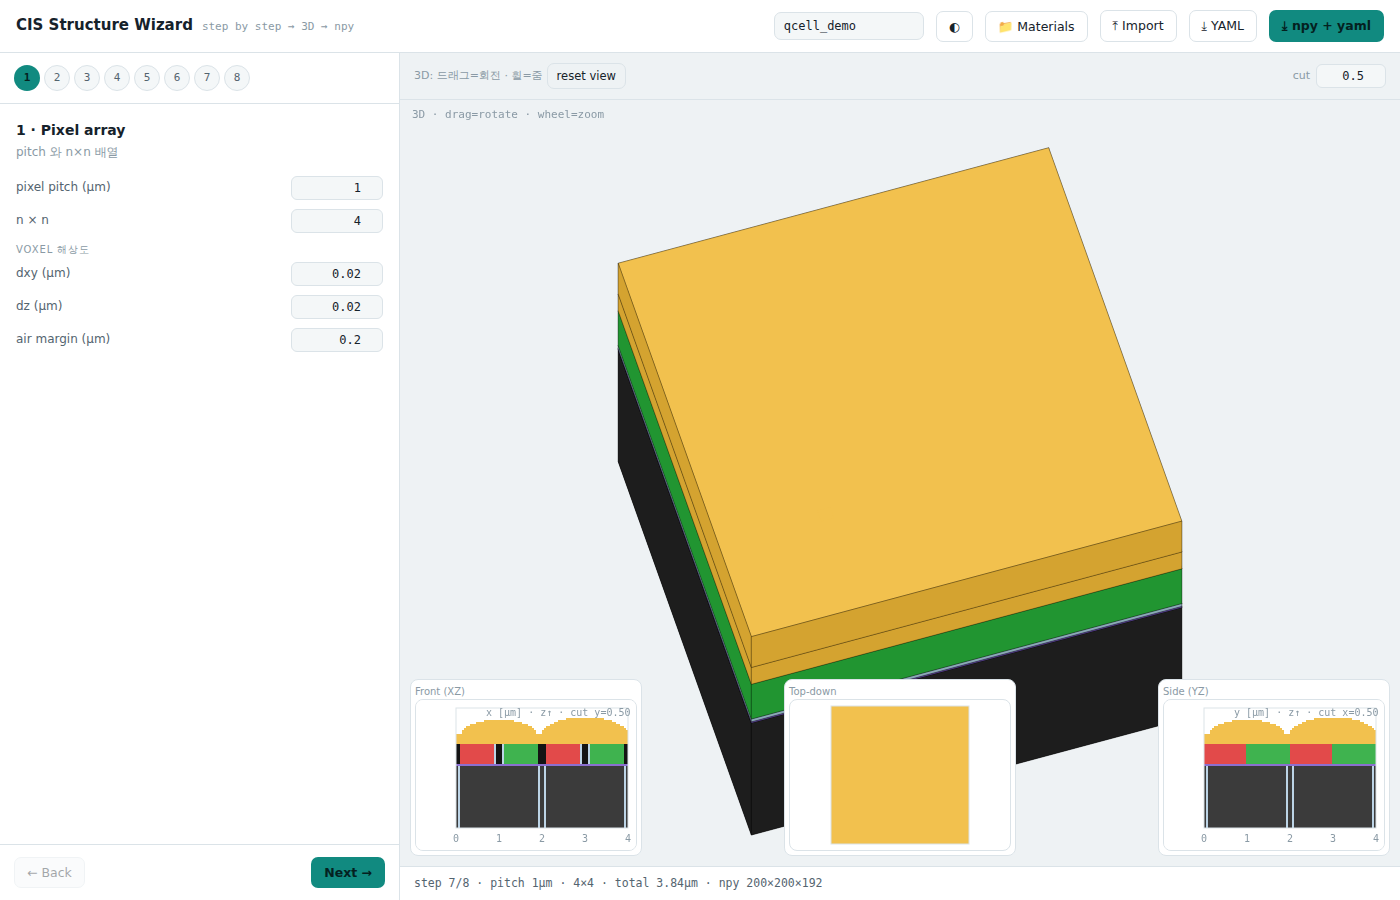
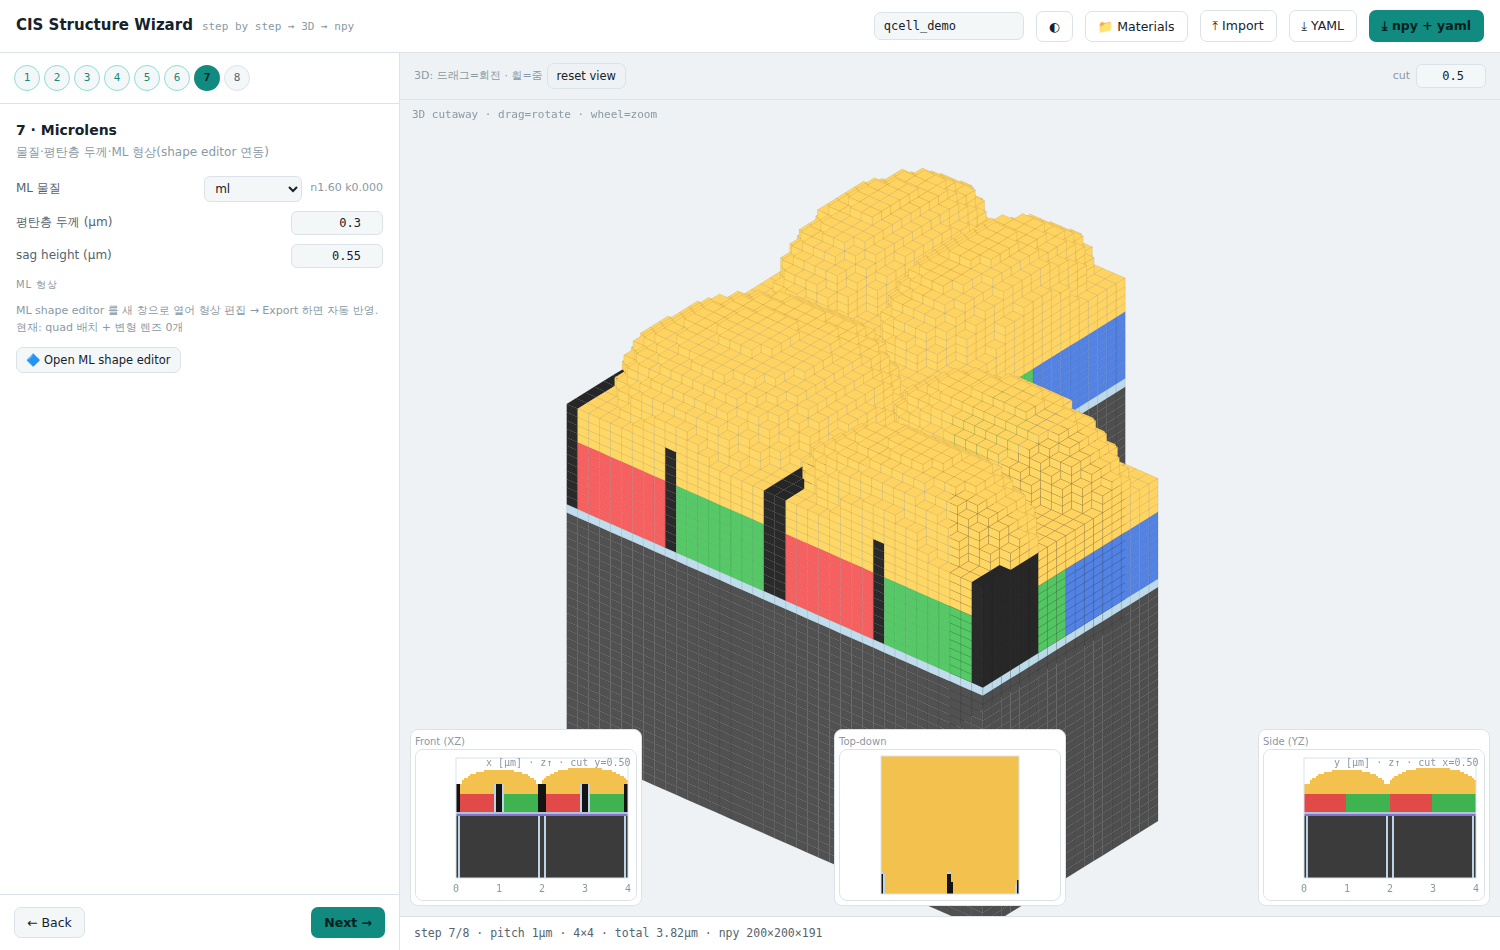
Real cutaway voxel 3D: DTI clover, grid fence, CF cells, ML domes, conformal ARL
- 3D 를 층 박스 대신 실제 구조 cutaway 복셀 렌더(build3D 지오메트리 +
  redraw3D 재투영). 한 사분면 절단으로 내부 단면 노출. 회전=재투영만(빠름).
- DTI center: + 팔은 남고 중앙만 열려 4픽셀 Si 연결(클로버), 표면 oxide 라이너.
- grid=3D 울타리(fence), CF=울타리 셀 채움, ML=실제 돔, ARL=ML 표면 conformal.
- 평탄층 두께 = 최저 CF top 기준(planarSpan). 모든 뷰(3D/front/side/top) 일관.

Claude-Session: https://claude.ai/code/session_01TWsubYhc5KeSwgcdPsEJZM

diff --git a/cis_rcwa/editors/structure_wizard.html b/cis_rcwa/editors/structure_wizard.html
@@ -160,24 +160,26 @@ function mlSag(x,y){ const p=P(),h=+S.stack.ml.sag_height_um,q=S.stack.ml.quads,
     else if(sh==="1x1"){for(let a=0;a<2;a++)for(let b=0;b<2;b++)dome(`q${qy}${qx}_1x1_${a*2+b}`,x0+(b+.5)*p,y0+(a+.5)*p,p/2,p/2);}
     else if(sh==="2x1"){ if(or==="h")for(let a=0;a<2;a++)dome(`q${qy}${qx}_2x1_${a}`,cx0,y0+(a+.5)*p,p,p/2); else for(let b=0;b<2;b++)dome(`q${qy}${qx}_2x1_${b}`,x0+(b+.5)*p,cy0,p/2,p);} }
   return sag; }
-function totalH(){ const s=S.stack; return +s.si.thickness_um + s.barl.reduce((a,l)=>a+ +l.thickness_um,0) + bandH() + +s.ml.planar_um + +s.ml.sag_height_um + +s.arl_top.thickness_um + +S.grid.air_margin_um; }
+function totalH(){ const s=S.stack; return +s.si.thickness_um + s.barl.reduce((a,l)=>a+ +l.thickness_um,0) + planarSpan() + +s.ml.sag_height_um + +s.arl_top.thickness_um + +S.grid.air_margin_um; }
 
 // ============================ npy voxel 빌드 ============================
+// planar band 높이: 평탄층 두께는 '최저 CF top' 기준. (tall CF/grid 는 덮도록 max)
+function cfMinH(){ return Math.min(S.stack.cf.R.thickness_um,S.stack.cf.G.thickness_um,S.stack.cf.B.thickness_um); }
+function planarSpan(){ return Math.max(cfMinH()+ +S.stack.ml.planar_um, cfMaxH(), gridTotalH()); }
 // 임의 점 (x,y,zc[um]) 의 물질 — upto: 표시할 최대 단계(=curStep, 99=전체)
 function matAt(x,y,zc,upto){ if(upto==null)upto=99; const s=S.stack,p=P(),np=NP();
-  const zSi=+s.si.thickness_um, barlH=s.barl.reduce((a,l)=>a+ +l.thickness_um,0), band=bandH();
-  const barlTop=zSi+barlH, cfTop=barlTop+band, planarTop=cfTop+ +s.ml.planar_um;
+  const zSi=+s.si.thickness_um, barlH=s.barl.reduce((a,l)=>a+ +l.thickness_um,0);
+  const barlTop=zSi+barlH, planarTop=barlTop+planarSpan();
   if(zc<zSi){ if(upto<1)return "air"; if(upto<2)return s.si.material; const m=dtiAt(x,y); return m||s.si.material; }
   if(zc<barlTop){ if(upto<3)return "air"; let zz=zc-zSi,acc=0; for(const l of s.barl){acc+=+l.thickness_um; if(zz<=acc)return l.material;} return s.barl.length?s.barl[s.barl.length-1].material:"air"; }
-  if(zc<cfTop){ const zabs=zc-barlTop;
-    const gm=(upto>=4)?gridAt(x,y,zabs):null; if(gm)return gm;
+  if(zc<planarTop){ const zabs=zc-barlTop;
+    const gm=(upto>=4)?gridAt(x,y,zabs):null; if(gm)return gm;            // grid 울타리
     if(upto>=5){ const pr=Math.min(np-1,Math.floor(y/p)),pc=Math.min(np-1,Math.floor(x/p)),col=colorRole(S.bayer[pr][pc]);
-      const cth=s.cf[{cf_red:"R",cf_green:"G",cf_blue:"B"}[col]].thickness_um; if(zabs<=cth)return col; }
-    if(upto>=6)return s.ml.material;    // 평탄화: CF 위 delta 를 ML 물질로 채움
+      const cth=s.cf[{cf_red:"R",cf_green:"G",cf_blue:"B"}[col]].thickness_um; if(zabs<=cth)return col; }  // 울타리 안 CF
+    if(upto>=6)return s.ml.material;    // 평탄화 fill
     return "air"; }
-  if(zc<planarTop){ return upto>=6? s.ml.material : "air"; }
-  if(upto<6)return "air"; const surf=planarTop+mlSag(x,y); if(zc<=surf)return s.ml.material;
-  if(upto>=7){ const arlT=+s.arl_top.thickness_um; if(zc<=surf+arlT)return s.arl_top.material; }
+  if(upto<6)return "air"; const surf=planarTop+mlSag(x,y); if(zc<=surf)return s.ml.material;  // ML dome
+  if(upto>=7){ const arlT=+s.arl_top.thickness_um; if(zc<=surf+arlT)return s.arl_top.material; }  // ARL conformal(ALD)
   return "air"; }
 
 function buildVoxels(){
@@ -202,7 +204,7 @@ const v3={yaw:-0.7, pitch:0.55, zoom:1};
 function renderViews(){ if(_raf)cancelAnimationFrame(_raf); _raf=requestAnimationFrame(_renderViews); }
 function _renderViews(){ _raf=null;
   const cv=el("iso3d"), r=cv.parentElement.getBoundingClientRect(); cv.width=Math.max(50,r.width); cv.height=Math.max(50,r.height);
-  drawISO3D(cv);
+  build3D();
   // 미니 2D 패널: Front(좌하) · Top(중앙하) · Side(우하)
   const m=el("mini"); m.innerHTML="";
   [["front","Front (XZ)"],["top","Top-down"],["side","Side (YZ)"]].forEach(([mode,lbl])=>{
@@ -247,51 +249,46 @@ function drawTop(cv,which){ const ctx=cv.getContext("2d"),W=cv.width,H=cv.height
   // 대표 z: DTI=Si 중앙, CF+grid=band 중앙, ML=heightmap
   const N=Math.round(span*sc), B=2;
   if(which===2){ const h=+s.ml.sag_height_um; for(let px=0;px<N;px+=B)for(let py=0;py<N;py+=B){ const sg=mlSag((px+B/2)/sc,(span-(py+B/2)/sc)); if(sg<=0)continue; ctx.fillStyle=`rgba(242,193,78,${0.15+0.85*sg/h})`; ctx.fillRect(ox+px,oy+py,B,B);} }
-  else { const zAt = which===0? zSi*0.5 : zSi+barlH+bandH()*0.5;
+  else { const zAt = which===0? zSi*0.5 : zSi+barlH+Math.min(cfMinH(),gridStackH())*0.5;
     for(let px=0;px<N;px+=B)for(let py=0;py<N;py+=B){ const m=matAt((px+B/2)/sc,(span-(py+B/2)/sc),zAt,curStep); if(m==="air")continue; ctx.fillStyle=matColor(m); ctx.fillRect(ox+px,oy+py,B,B);} }
   ctx.strokeStyle=css("--line"); ctx.strokeRect(ox,oy,span*sc,span*sc);
 }
 function shadeHex(hex,d){ hex=(hex||"#888").replace('#',''); if(hex.length===3)hex=hex.split('').map(c=>c+c).join(''); const n=parseInt(hex,16); const r=Math.max(0,Math.min(255,((n>>16)&255)+d)),g=Math.max(0,Math.min(255,((n>>8)&255)+d)),bl=Math.max(0,Math.min(255,(n&255)+d)); return `rgb(${r},${g},${bl})`; }
-// 인터랙티브 3D: 회전(yaw/pitch)+줌, 면 depth 정렬, 최상단 top 면 패턴
-function drawISO3D(cv){ const ctx=cv.getContext("2d"),W=cv.width,H=cv.height; ctx.clearRect(0,0,W,H); ctx.fillStyle=css("--bg"); ctx.fillRect(0,0,W,H);
-  const p=P(),np=NP(),span=p*np,s=S.stack,Ht=totalH();
-  const base=Math.min(W,H)/(Math.max(span,Ht)*1.7)*v3.zoom, cx=span/2, cz=Ht/2;
+// 실제 구조 cutaway 복셀 3D — build3D(지오메트리) + redraw3D(투영, 회전시 재사용)
+let iso={faces:[],span:1,Ht:1};
+function build3D(){ const span=P()*NP(), Ht=totalH();
+  if(curStep<1){ iso={faces:[],span,Ht}; redraw3D(); return; }
+  const nvx=38, dv=span/nvx, nvz=Math.max(12,Math.round(Ht/(Math.max(span,Ht)/56))), dvz=Ht/nvz;
+  const cutX=span*0.5, cutY=span*0.5;   // 한 사분면 잘라내어 내부 단면 노출
+  const grid=[];
+  for(let k=0;k<nvz;k++){ const pk=[]; const z=(k+0.5)*dvz;
+    for(let j=0;j<nvx;j++){ const pj=[]; const y=(j+0.5)*dv;
+      for(let i=0;i<nvx;i++){ const x=(i+0.5)*dv; let m; if(x>cutX&&y>cutY)m="cut"; else { m=matAt(x,y,z,curStep); if(m==="air")m=null; } pj.push(m); }
+      pk.push(pj);} grid.push(pk); }
+  const cell=(i,j,k)=> (i<0||j<0||k<0||i>=nvx||j>=nvx||k>=nvz)?null:grid[k][j][i];
+  const faces=[]; const dirs=[[1,0,0],[-1,0,0],[0,1,0],[0,-1,0],[0,0,1],[0,0,-1]];
+  for(let k=0;k<nvz;k++)for(let j=0;j<nvx;j++)for(let i=0;i<nvx;i++){ const m=grid[k][j][i]; if(!m||m==="cut")continue;
+    for(const d of dirs){ const nb=cell(i+d[0],j+d[1],k+d[2]); if(nb!==null&&nb!=="cut")continue;   // 내부(같은/다른 solid)면 skip; air/cut 만 노출
+      const x0=i*dv,x1=(i+1)*dv,y0=j*dv,y1=(j+1)*dv,z0=k*dvz,z1=(k+1)*dvz; let c;
+      if(d[0]===1)c=[[x1,y0,z0],[x1,y1,z0],[x1,y1,z1],[x1,y0,z1]]; else if(d[0]===-1)c=[[x0,y0,z0],[x0,y0,z1],[x0,y1,z1],[x0,y1,z0]];
+      else if(d[1]===1)c=[[x0,y1,z0],[x0,y1,z1],[x1,y1,z1],[x1,y1,z0]]; else if(d[1]===-1)c=[[x0,y0,z0],[x1,y0,z0],[x1,y0,z1],[x0,y0,z1]];
+      else if(d[2]===1)c=[[x0,y0,z1],[x1,y0,z1],[x1,y1,z1],[x0,y1,z1]]; else c=[[x0,y0,z0],[x0,y1,z0],[x1,y1,z0],[x1,y0,z0]];
+      faces.push({c,n:d,col:matColor(m)}); } }
+  iso={faces,span,Ht}; redraw3D();
+}
+function redraw3D(){ const cv=el("iso3d"); if(!cv)return; const ctx=cv.getContext("2d"),W=cv.width,H=cv.height; ctx.clearRect(0,0,W,H); ctx.fillStyle=css("--bg"); ctx.fillRect(0,0,W,H);
+  if(!iso.faces.length){ ctx.fillStyle=css("--ink-faint"); ctx.font="12px "+css("--mono"); ctx.fillText("(step 2+ 부터 표시)",20,30); return; }
+  const span=iso.span,Ht=iso.Ht,base=Math.min(W,H)/(Math.max(span,Ht)*1.5)*v3.zoom, cx=span/2,cz=Ht/2;
   const cyaw=Math.cos(v3.yaw),syaw=Math.sin(v3.yaw),cpit=Math.cos(v3.pitch),spit=Math.sin(v3.pitch);
-  function pr(x,y,z){ let X=x-cx,Y=y-cx,Z=z-cz; let x1=X*cyaw-Y*syaw, y1=X*syaw+Y*cyaw; let y2=y1*cpit-Z*spit, z2=y1*spit+Z*cpit;
-    return [W/2+x1*base, H/2-z2*base, y2]; }   // [px,py,depth(Y)]
-  // 층 리스트 (현재 step 까지)
-  const layers=[]; let z=0;
-  if(curStep>=1) layers.push({z0:0,z1:+s.si.thickness_um,col:matColor(s.si.material)}); z=+s.si.thickness_um;
-  if(curStep>=3) s.barl.forEach(l=>{layers.push({z0:z,z1:z+ +l.thickness_um,col:matColor(l.material)}); z+=+l.thickness_um;}); else z+=s.barl.reduce((a,l)=>a+ +l.thickness_um,0);
-  if(curStep>=4){ layers.push({z0:z,z1:z+bandH(),col:matColor("cf_green")}); } z+=bandH();
-  if(curStep>=6){ layers.push({z0:z,z1:z+ +s.ml.planar_um,col:matColor(s.ml.material)}); z+=+s.ml.planar_um; layers.push({z0:z,z1:z+ +s.ml.sag_height_um,col:matColor(s.ml.material)}); }
-  if(!layers.length){ ctx.fillStyle=css("--ink-faint"); ctx.font="12px "+css("--mono"); ctx.fillText("(step 2+ 부터 표시)",20,30); return; }
-  const topZ = layers[layers.length-1].z1;
-  // 면 수집: 각 박스의 6면 (side 4 + top + bottom)
-  const faces=[];
-  layers.forEach((L,li)=>{ const isTop=(li===layers.length-1);
-    const c=[[0,0],[span,0],[span,span],[0,span]];
-    // sides
-    for(let i=0;i<4;i++){ const a=c[i],b=c[(i+1)%4]; faces.push({pts:[[a[0],a[1],L.z0],[b[0],b[1],L.z0],[b[0],b[1],L.z1],[a[0],a[1],L.z1]],col:L.col,kind:"side"}); }
-    faces.push({pts:c.map(q=>[q[0],q[1],L.z1]),col:L.col,kind:"top",top:isTop,ztop:L.z1});
-    faces.push({pts:c.map(q=>[q[0],q[1],L.z0]),col:L.col,kind:"bot"});
-  });
-  // depth 정렬 (뒤->앞)
-  faces.forEach(f=>{ f.proj=f.pts.map(q=>pr(q[0],q[1],q[2])); f.depth=f.proj.reduce((a,q)=>a+q[2],0)/f.proj.length; });
-  faces.sort((a,b)=>b.depth-a.depth);
-  faces.forEach(f=>{
-    const path=()=>{ ctx.beginPath(); f.proj.forEach((q,i)=> i?ctx.lineTo(q[0],q[1]):ctx.moveTo(q[0],q[1])); ctx.closePath(); };
-    // 음영: side 어둡게
-    let col=f.kind==="side"?shadeHex(f.col,-30):(f.kind==="bot"?shadeHex(f.col,-55):f.col);
-    path(); ctx.fillStyle=col; ctx.fill(); ctx.strokeStyle="rgba(0,0,0,.28)"; ctx.lineWidth=1; ctx.stroke();
-    // 최상단 top 면 패턴 (matAt)
-    if(f.top){ ctx.save(); path(); ctx.clip(); const M=34;
-      for(let i=0;i<M;i++)for(let j=0;j<M;j++){ const x=span*(i+.5)/M,y=span*(j+.5)/M; const m=matAt(x,y,f.ztop-1e-4,curStep); if(m==="air")continue;
-        const P0=pr(span*i/M,span*j/M,f.ztop),P1=pr(span*(i+1)/M,span*j/M,f.ztop),P2=pr(span*(i+1)/M,span*(j+1)/M,f.ztop),P3=pr(span*i/M,span*(j+1)/M,f.ztop);
-        ctx.beginPath(); ctx.moveTo(P0[0],P0[1]); ctx.lineTo(P1[0],P1[1]); ctx.lineTo(P2[0],P2[1]); ctx.lineTo(P3[0],P3[1]); ctx.closePath(); ctx.fillStyle=matColor(m); ctx.fill(); }
-      ctx.restore(); }
-  });
-  ctx.fillStyle=css("--ink-faint"); ctx.font="11px "+css("--mono"); ctx.fillText("3D · drag=rotate · wheel=zoom",12,18);
+  function pr(x,y,z){ let X=x-cx,Y=y-cx,Z=z-cz; let x1=X*cyaw-Y*syaw,y1=X*syaw+Y*cyaw; let y2=y1*cpit-Z*spit,z2=y1*spit+Z*cpit; return [W/2+x1*base,H/2-z2*base,y2]; }
+  function ndep(n){ let x1=n[0]*cyaw-n[1]*syaw,y1=n[0]*syaw+n[1]*cyaw; return y1*cpit-n[2]*spit; }
+  const draw=[];
+  for(const f of iso.faces){ const yn=ndep(f.n); if(yn>0.03)continue;   // back-face cull
+    const pj=f.c.map(q=>pr(q[0],q[1],q[2])); draw.push({pj,depth:(pj[0][2]+pj[1][2]+pj[2][2]+pj[3][2])/4,col:f.col,yn}); }
+  draw.sort((a,b)=>b.depth-a.depth);
+  for(const d of draw){ ctx.beginPath(); d.pj.forEach((q,i)=>i?ctx.lineTo(q[0],q[1]):ctx.moveTo(q[0],q[1])); ctx.closePath();
+    ctx.fillStyle=shadeHex(d.col, Math.round(-d.yn*34)); ctx.fill(); ctx.strokeStyle="rgba(0,0,0,.14)"; ctx.lineWidth=0.5; ctx.stroke(); }
+  ctx.fillStyle=css("--ink-faint"); ctx.font="11px "+css("--mono"); ctx.fillText("3D cutaway · drag=rotate · wheel=zoom",12,18);
 }
 
 // ============================ 위저드 스텝 ============================
@@ -346,11 +343,11 @@ el("nextBtn").onclick=()=>{ if(curStep<STEPS.length-1){curStep++; renderStep();}
 (function(){ const cv=el("iso3d"); let drag=null;
   cv.addEventListener("pointerdown",e=>{ drag={x:e.clientX,y:e.clientY}; cv.setPointerCapture(e.pointerId); });
   cv.addEventListener("pointermove",e=>{ if(!drag)return; v3.yaw+=(e.clientX-drag.x)*0.01; v3.pitch+=(e.clientY-drag.y)*0.01;
-    v3.pitch=Math.max(-1.4,Math.min(1.4,v3.pitch)); drag={x:e.clientX,y:e.clientY}; renderViews(); });
+    v3.pitch=Math.max(-1.4,Math.min(1.4,v3.pitch)); drag={x:e.clientX,y:e.clientY}; redraw3D(); });   // 회전=재투영만(빠름)
   cv.addEventListener("pointerup",()=>drag=null);
-  cv.addEventListener("wheel",e=>{ e.preventDefault(); v3.zoom*=Math.exp(-e.deltaY*0.001); v3.zoom=Math.max(0.3,Math.min(4,v3.zoom)); renderViews(); },{passive:false});
+  cv.addEventListener("wheel",e=>{ e.preventDefault(); v3.zoom*=Math.exp(-e.deltaY*0.001); v3.zoom=Math.max(0.3,Math.min(4,v3.zoom)); redraw3D(); },{passive:false});
 })();
-el("resetView").onclick=()=>{ v3.yaw=-0.7; v3.pitch=0.55; v3.zoom=1; renderViews(); };
+el("resetView").onclick=()=>{ v3.yaw=-0.7; v3.pitch=0.55; v3.zoom=1; redraw3D(); };
 el("cutY").oninput=()=>renderViews();
 el("themeBtn").onclick=()=>{ const r=document.documentElement,cur=r.getAttribute("data-theme")||(matchMedia("(prefers-color-scheme: dark)").matches?"dark":"light"); r.setAttribute("data-theme",cur==="dark"?"light":"dark"); renderViews(); };
 el("matBtn").onclick=()=>el("matFolder").click();
